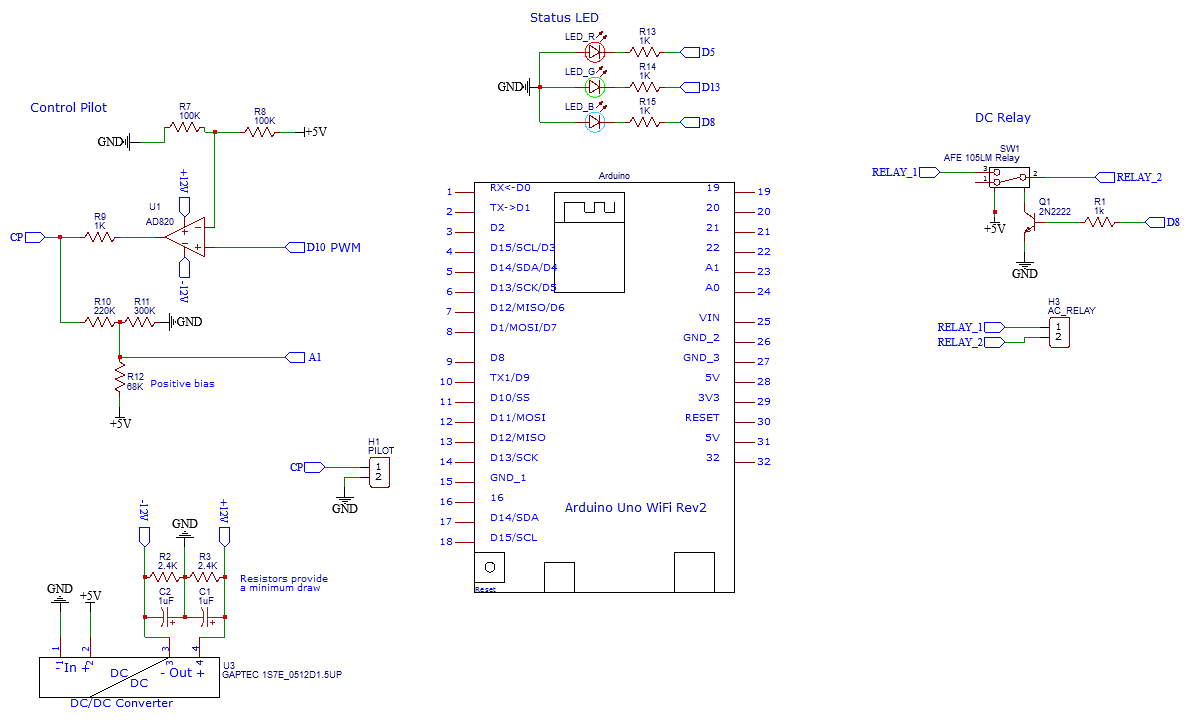
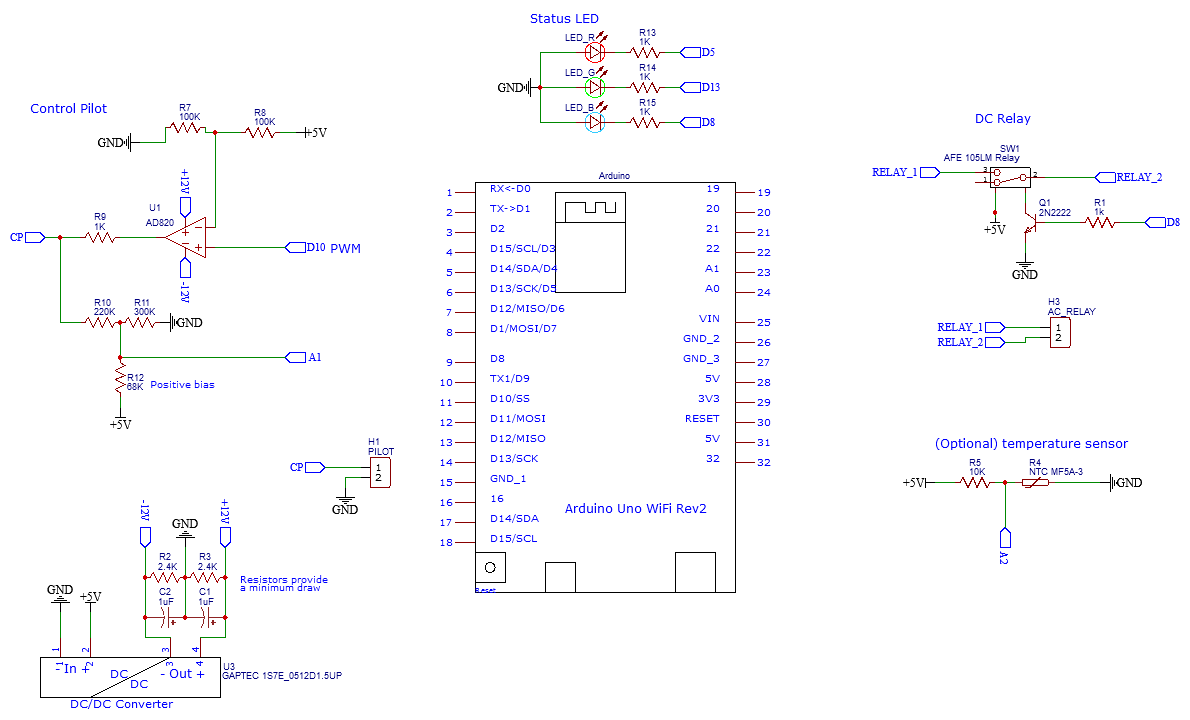
add temp sensor

diff --git a/lib/TempSensor/TempSensor.cpp b/lib/TempSensor/TempSensor.cpp
@@ -1,0 +1,58 @@
+#include "TempSensor.h"
+
+#include <Arduino.h>
+
+// We assume a standard 10K (+/- 5%) NTC thermistor (R1) that is placed in a voltage divider with another resistor (R2) of the same value (10K):
+#define R2 10000
+
+// Reference voltages
+#define VREF 5.0
+#define VIN VREF
+
+// Define the Steinhart-Hart coefficients for the used NTC (derived from datasheet for type "MF5A-3" thermistor)
+// See https://www.thinksrs.com/downloads/programs/therm%20calc/ntccalibrator/ntccalculator.html
+#define A .001035859558
+#define B .0002489452793
+#define C .000000003236347528
+
+/**
+ * Calculates the temperature of a thermistor using Steinhart-Hart equation.
+ * 
+ * A, B, and C are the Steinhart–Hart coefficients, which vary depending on the type and model of thermistor.
+ * 
+ * See https://en.wikipedia.org/wiki/Steinhart%E2%80%93Hart_equation.
+*/
+float steinhartHart(float a, float b, float c, float r) {
+    float logR = log(r);
+    return 1.0 / (a + b * logR + c * pow(logR, 3));
+}
+
+float kelvinToCelcius(float K) {
+    return K - 273.15;
+}
+
+float voltageDivider(float vin, float vout, float r2) {
+    return r2 * (vin / vout - 1);
+}
+
+unsigned long lastRead = 0;
+
+TempSensor::TempSensor(uint8_t pinNumber)
+{
+    this->pinNumber = pinNumber;
+}
+
+float TempSensor::read()
+{
+    float pinVoltage = VREF * (analogRead(this->pinNumber) / 1023.0);
+    float resistance = voltageDivider(VIN, pinVoltage, R2);
+    float tempKelvin = steinhartHart(A, B, C, resistance);
+    this->lastReadTemp = kelvinToCelcius(tempKelvin);
+    
+    return this->lastReadTemp;
+}
+
+float TempSensor::getLastRead()
+{
+    return this->lastReadTemp;
+}

diff --git a/lib/TempSensor/TempSensor.h b/lib/TempSensor/TempSensor.h
@@ -1,0 +1,36 @@
+/*
+ * This file is part of the ArduinoEVSE (https://github.com/tomwetjens/ArduinoEVSE).
+ * Copyright (c) 2023 Tom Wetjens.
+ *
+ * This program is free software: you can redistribute it and/or modify
+ * it under the terms of the GNU General Public License as published by
+ * the Free Software Foundation, version 3.
+ *
+ * This program is distributed in the hope that it will be useful, but
+ * WITHOUT ANY WARRANTY; without even the implied warranty of
+ * MERCHANTABILITY or FITNESS FOR A PARTICULAR PURPOSE. See the GNU
+ * General Public License for more details.
+ *
+ * You should have received a copy of the GNU General Public License
+ * along with this program. If not, see <http://www.gnu.org/licenses/>.
+ */
+
+#ifndef TEMP_SENSOR_H_
+#define TEMP_SENSOR_H_ _
+
+#include <Arduino.h>
+
+class TempSensor
+{
+private:
+  uint8_t pinNumber;
+  float lastReadTemp;
+
+public:
+  TempSensor(uint8_t pinNumber);
+
+  float read();
+  float getLastRead();
+};
+
+#endif // TEMP_SENSOR_H_

diff --git a/lib/MqttController/MqttController.cpp b/lib/MqttController/MqttController.cpp
@@ -170,15 +170,21 @@ void MqttController::sendUpdate()
     float pilotVoltage = pilot->getVoltage();
     float pilotVoltageFraction = pilotVoltage - (int)pilotVoltage;
     int pilotVoltageDecimals = pilotVoltageFraction * 10;
+    
+    float temp = this->chargeController->getTemp();
+    float tempFraction = temp - (int)temp;
+    int tempDecimals = tempFraction * 10;
 
     char msg[100];
-    sprintf(msg, "%d,%d,%d.%01d,%d.%02d",
+    sprintf(msg, "%d,%d,%d.%01d,%d.%01d,%d.%01d",
             this->chargeController->getState(),
             this->chargeController->getVehicleState(),
             (int)currentLimit,
             currentLimitDecimals,
             (int)pilotVoltage,
-            pilotVoltageDecimals);
+            pilotVoltageDecimals,
+            (int)temp,
+            tempDecimals);
 
     Serial.print("Sending message to ");
     Serial.print(this->settings.outTopic);

diff --git a/lib/ChargeController/ChargeController.cpp b/lib/ChargeController/ChargeController.cpp
@@ -82,9 +82,10 @@ void ChargeController::openRelay()
     digitalWrite(PIN_AC_RELAY, LOW);
 }
 
-ChargeController::ChargeController(Pilot &pilot)
+ChargeController::ChargeController(Pilot &pilot, TempSensor &tempSensor)
 {
     this->pilot = &pilot;
+    this->tempSensor = &tempSensor;
 }
 
 void ChargeController::setup(ChargingSettings settings)
@@ -104,6 +105,9 @@ void ChargeController::setup(ChargingSettings settings)
 void ChargeController::loop()
 {
     this->updateVehicleState();
+
+    this->tempSensor->read();
+
     this->fallbackCurrentIfNeeded();
 }
 
@@ -163,6 +167,11 @@ State ChargeController::getState()
 VehicleState ChargeController::getVehicleState()
 {
     return this->vehicleState;
+}
+
+float ChargeController::getTemp()
+{
+    return this->tempSensor->getLastRead();
 }
 
 float ChargeController::getCurrentLimit()

diff --git a/lib/ChargeController/ChargeController.h b/lib/ChargeController/ChargeController.h
@@ -19,6 +19,7 @@
 #define CHARGECONTROLLER_H_ _
 
 #include "Pilot.h"
+#include <TempSensor.h>
 
 enum State
 {
@@ -54,6 +55,7 @@ private:
   ChargingSettings settings;
   State state;
   Pilot *pilot;
+  TempSensor *tempSensor;
   VehicleState vehicleState;
   float currentLimit;
   unsigned long currentLimitLastUpdated;
@@ -67,7 +69,7 @@ private:
   void openRelay();
 
 public:
-  ChargeController(Pilot &pilot);
+  ChargeController(Pilot &pilot, TempSensor &tempSensor);
 
   void setup(ChargingSettings settings);
   void loop();
@@ -81,6 +83,7 @@ public:
   float getCurrentLimit();
   void setCurrentLimit(float amps);
   Pilot *getPilot();
+  float getTemp();
 
   // Event handlers
   void onVehicleStateChange(ChargeControllerEventHandler handler);

diff --git a/src/main.cpp b/src/main.cpp
@@ -21,6 +21,7 @@
 #include "ChargeController.h"
 #include "NetworkManager.h"
 #include "MqttController.h"
+#include <TempSensor.h>
 
 #include "arduino_secrets.h"
 
@@ -28,7 +29,8 @@
 #define LED_RED 5
 
 Pilot pilot;
-ChargeController chargeController(pilot);
+TempSensor tempSensor(PIN_A2);
+ChargeController chargeController(pilot, tempSensor);
 NetworkManager networkManager;
 MqttController mqttController(chargeController);
 Display display(chargeController, networkManager, mqttController);
